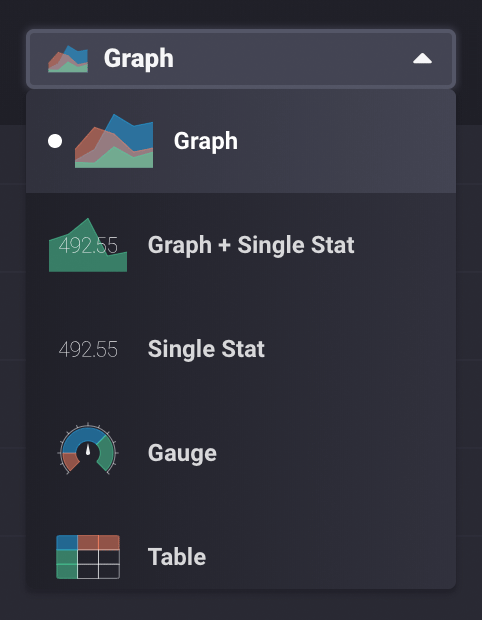
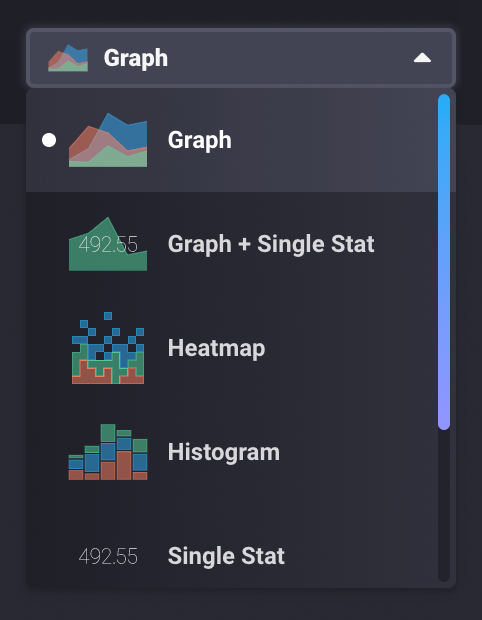
added heatmap vis, updated images

diff --git a/content/v2.0/visualize-data/visualization-types.md b/content/v2.0/visualize-data/visualization-types.md
@@ -16,12 +16,13 @@ which can be selected in the **Visualization Type** selection view of the
 Each of the available visualization types and available user controls are described below.
 
 
-* [Graph](#graph)
-* [Graph + Single Stat](#graph-single-stat)
-* [Histogram](#histogram)
-* [Single Stat](#single-stat)
-* [Gauge](#gauge)
-* [Table](#table)
+- [Graph](#graph)
+- [Graph + Single Stat](#graph-single-stat)
+- [Heatmap](#heatmap)
+- [Histogram](#histogram)
+- [Single Stat](#single-stat)
+- [Gauge](#gauge)
+- [Table](#table)
 
 ### Graph
 
@@ -29,6 +30,8 @@ There are several types of graphs you can create.
 
 To select this view, select the **Graph** option from the visualization dropdown
 in the upper right.
+
+{{< img-hd src="/img/2-0-visualizations-line-graph-example.png" alt="Line Graph example" />}}
 
 #### Graph controls
 
@@ -54,17 +57,21 @@ to the visualization dropdown in the upper right.
       - **Min**: Minimum y-axis value.
       - **Max**: Maximum y-axis value.
 
-##### Line Graph example
+##### Graph with linear interpolation
 
 {{< img-hd src="/img/2-0-visualizations-line-graph-example.png" alt="Line Graph example" />}}
+
+##### Graph with smooth interpolation
+
+{{< img-hd src="/img/2-0-visualizations-line-graph-smooth-example.png" alt="Step-Plot Graph example" />}}
+
+##### Graph with step interpolation
+
+{{< img-hd src="/img/2-0-visualizations-line-graph-step-example.png" alt="Step-Plot Graph example" />}}
 
 <!-- ##### Stacked Graph example
 
 {{< img-hd src="/img/2-0-visualizations-stacked-graph-example.png" alt="Stacked Graph example" />}} -->
-
-#### Step-Plot Graph example
-
-{{< img-hd src="/img/2-0-visualizations-step-plot-graph-example.png" alt="Step-Plot Graph example" />}}
 
 <!-- ##### Bar Graph example
 
@@ -74,6 +81,8 @@ to the visualization dropdown in the upper right.
 
 The **Graph + Single Stat** view displays the specified time series in a line graph
 and overlays the single most recent value as a large numeric value.
+
+{{< img-hd src="/img/2-0-visualizations-line-graph-single-stat-example.png" alt="Line Graph + Single Stat example" />}}
 
 To select this view, select the **Graph + Single Stat** option from the visualization
 dropdown in the upper right.
@@ -110,14 +119,54 @@ next to the visualization dropdown in the upper right.
 - **Colorization**: Choose **Text** for the single stat to change color based on the configured thresholds.
   Choose **Background** for the background of the graph to change color based on the configured thresholds.
 
-#### Graph + Single Stat example
+### Heatmap
 
-{{< img-hd src="/img/2-0-visualizations-line-graph-single-stat-example.png" alt="Line Graph + Single Stat example" />}}
+A **Heatmap** displays the distribution of data on an x and y axes where color
+represents different concentrations of data points.
+
+{{< img-hd src="/img/2-0-visualizations-heatmap-example.png" alt="Heatmap example" />}}
+
+To select this view, select the **Heatmap** option from the visualization dropdown in the upper right.
+
+#### Heatmap Controls
+
+To view **Heatmap** controls, click the settings icon ({{< icon "gear" >}})
+next to the visualization dropdown in the upper right.
+
+###### Data
+- **X Column**: Select the column to use for the x-axis.
+- **Y Column**: Select the column to use for the y-axis.
+
+###### Options
+- **Color Scheme**: Select a color scheme to use for your heatmap.
+- **Bin Size**: Specify the size of each bin. Default is 10.
+
+###### X Axis
+- **X Axis Label**: Label for the x-axis.
+- **X Tick Prefix**: Prefix to be added to x-value.
+- **X Tick Suffix**: Suffix to be added to x-value.
+- **X Axis Domain**: The x-axis value range.
+  - **Auto**: Automatically determine the value range based on values in the data set.
+  - **Custom**: Manually specify the value range of the x-axis.
+      - **Min**: Minimum x-axis value.
+      - **Max**: Maximum x-axis value.
+
+###### Y Axis
+- **Y Axis Label**: Label for the y-axis.
+- **Y Tick Prefix**: Prefix to be added to y-value.
+- **Y Tick Suffix**: Suffix to be added to y-value.
+- **Y Axis Domain**: The y-axis value range.
+  - **Auto**: Automatically determine the value range based on values in the data set.
+  - **Custom**: Manually specify the value range of the y-axis.
+      - **Min**: Minimum y-axis value.
+      - **Max**: Maximum y-axis value.
 
 ### Histogram
 
 A histogram is a way to view the distribution of data. Unlike column charts, histograms have no time axis.
 The y-axis is dedicated to count, and the x-axis is divided into bins.
+
+{{< img-hd src="/img/2-0-visualizations-histogram-example.png" alt="Histogram example" />}}
 
 To select this view, select the **Histogram** option from the visualization dropdown in the upper right.
 
@@ -146,13 +195,11 @@ to the visualization dropdown in the upper right.
       - **Min**: Minimum x-axis value.
       - **Max**: Maximum x-axis value.
 
-#### Histogram example
-
-{{< img-hd src="/img/2-0-visualizations-histogram-example.png" alt="Histogram example" />}}
-
 ### Single Stat
 
 The **Single Stat** view displays the most recent value of the specified time series as a numerical value.
+
+{{< img-hd src="/img/2-0-visualizations-single-stat-example.png" alt="Single stat example" />}}
 
 To select this view, select the **Single Stat** option from the visualization dropdown in the upper right.
 
@@ -178,6 +225,8 @@ next to the visualization dropdown in the upper right.
 
 The **Gauge** view displays the single value most recent value for a time series in a gauge view.
 
+{{< img-hd src="/img/2-0-visualizations-gauge-example.png" alt="Gauge example" />}}
+
 To select this view, select the **Gauge** option from the visualization dropdown in the upper right.
 
 #### Gauge Controls
@@ -196,13 +245,11 @@ the visualization dropdown in the upper right.
   - **Value is**: Enter the value at which the gauge should appear in the selected color.
     Choose a color from the dropdown menu next to the value.
 
-#### Gauge example
-
-{{< img-hd src="/img/2-0-visualizations-gauge-example.png" alt="Gauge example" />}}
-
 ### Table
 
 The **Table** option displays the results of queries in a tabular view, which is sometimes easier to analyze than graph views of data.
+
+{{< img-hd src="/img/2-0-visualizations-table-example.png" alt="Table example" />}}
 
 To select this view, select the **Table** option from the visualization dropdown in the upper right.
 
@@ -237,7 +284,3 @@ To view **Table** controls, click the settings icon ({{< icon "gear" >}}) next t
 - **Add a Threshold**: Change the color of the table based on the current value.
   - **Value is**: Enter the value at which the table should appear in the selected color.
     Choose a color from the dropdown menu next to the value.
-
-#### Table view example
-
-{{< img-hd src="/img/2-0-visualizations-table-example.png" alt="Table example" />}}
